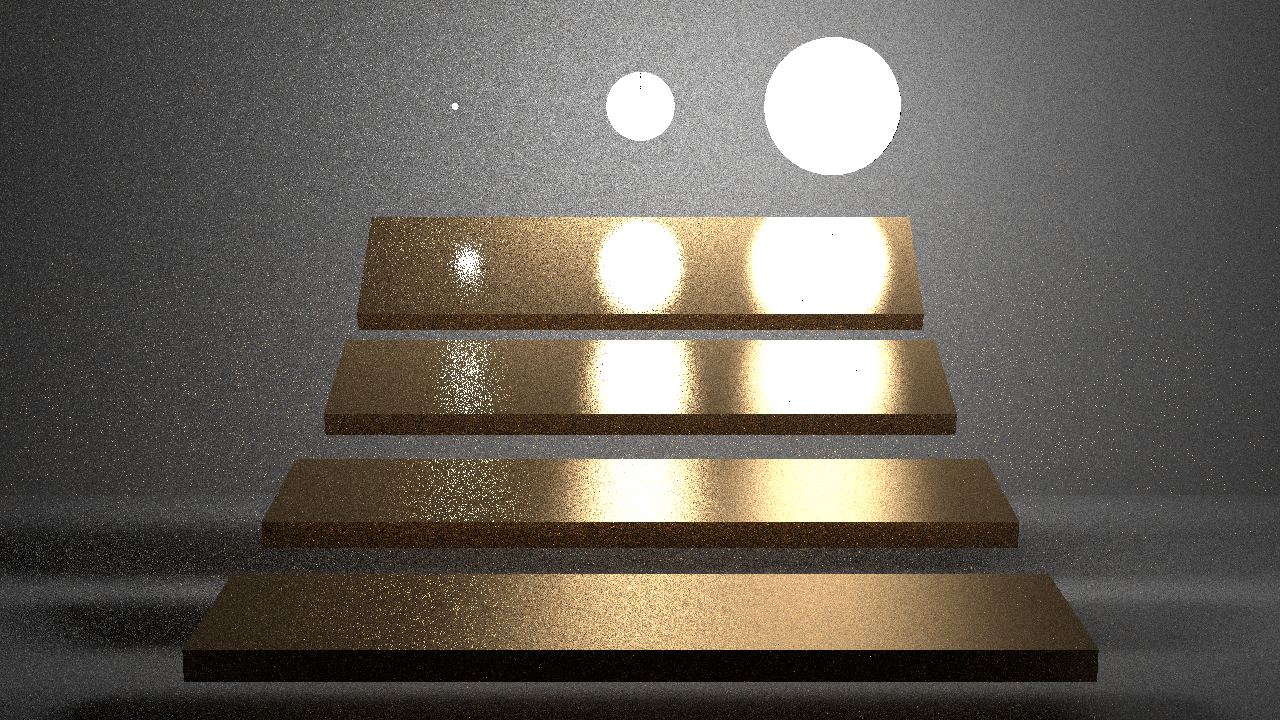
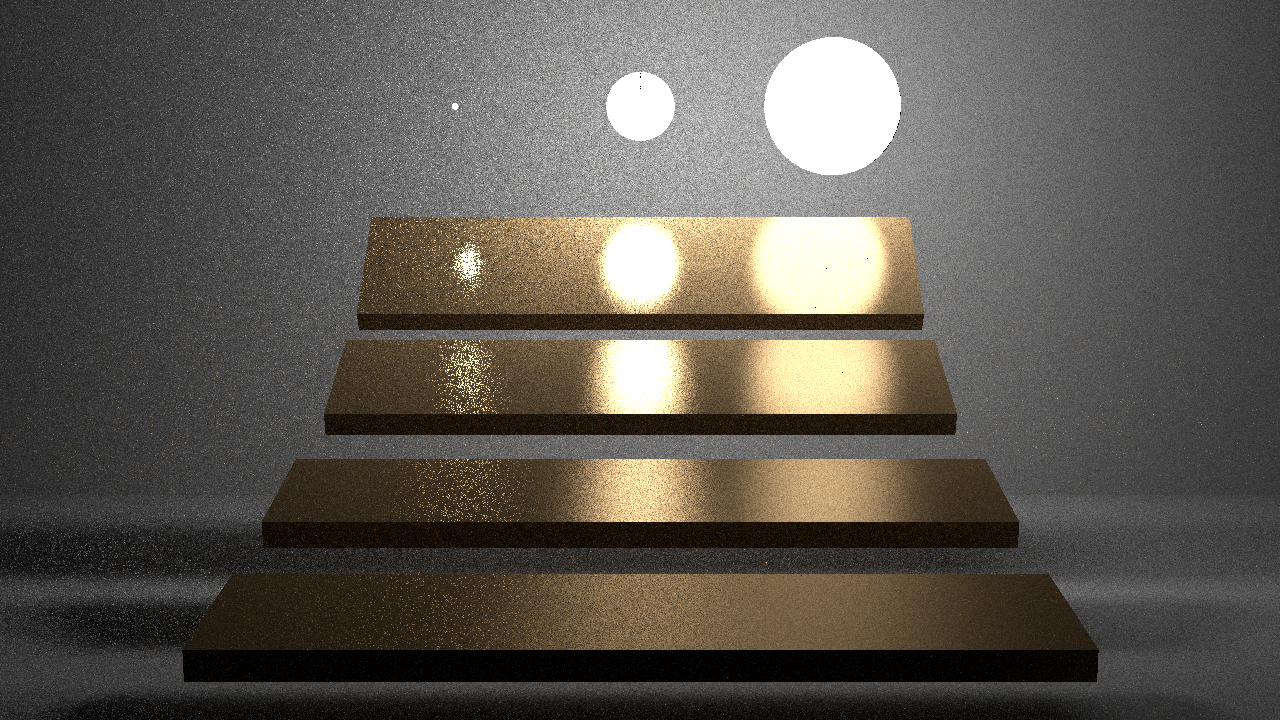
temp

diff --git a/cg-final/cg-final.cpp b/cg-final/cg-final.cpp
@@ -26,10 +26,10 @@ int main()
 
     // load scene
     Camera_Config camera_config;
-    std::string xml_filename = "runtime/scene/staircase/staircase.xml";
+    std::string xml_filename = "runtime/scene/cornell-box-simple/cornell-box.xml";
     my_load_scene(xml_filename, light_materials, camera_config);
-    std::string filename = "runtime/scene/staircase/stairscase.obj";
-    std::string basepath = "runtime/scene/staircase/";
+    std::string filename = "runtime/scene/cornell-box-simple/cornell-box.obj";
+    std::string basepath = "runtime/scene/cornell-box-simple/";
     my_load_obj(filename, basepath, triangles, light_triangles, materials, light_materials);
 
     auto camera = Perspective_Camera(camera_config);
@@ -45,7 +45,7 @@ int main()
     float tmin = camera.get_t_min();
     glm::vec3 n0(0, 0, 0);
 
-    int sample_num = 8;
+    int sample_num = 3;
     auto sample_offset = glm::vec2(1.f / sample_num, 1.f / sample_num);
 	for (int i = 0; i < width; i++) {
 		for (int j = 0; j < height; j++) {
